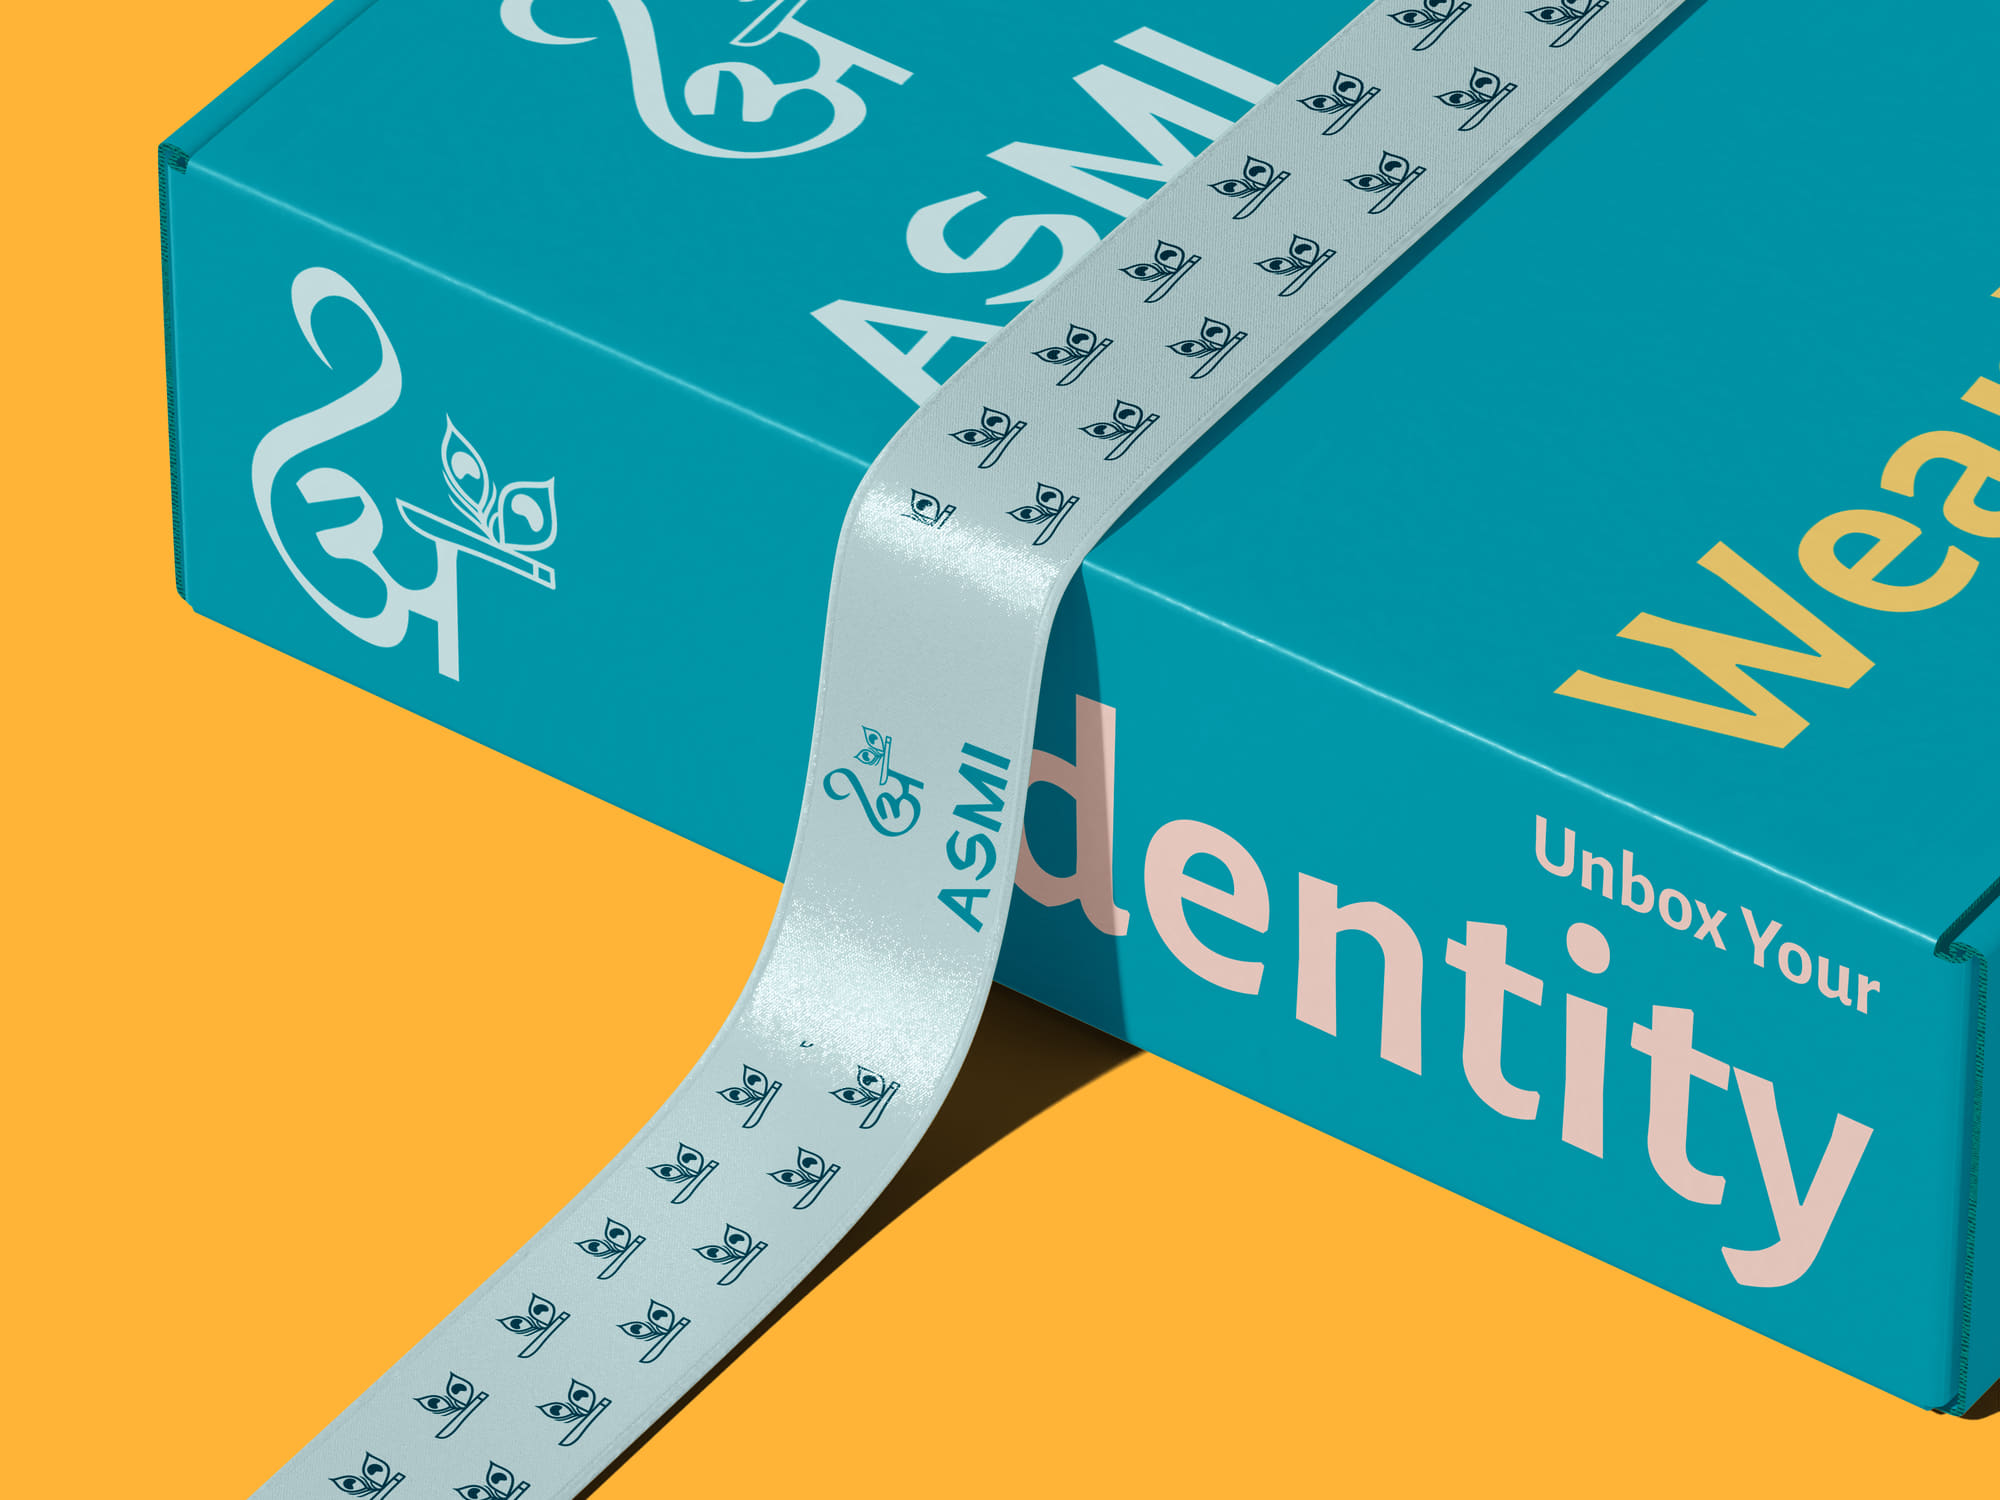
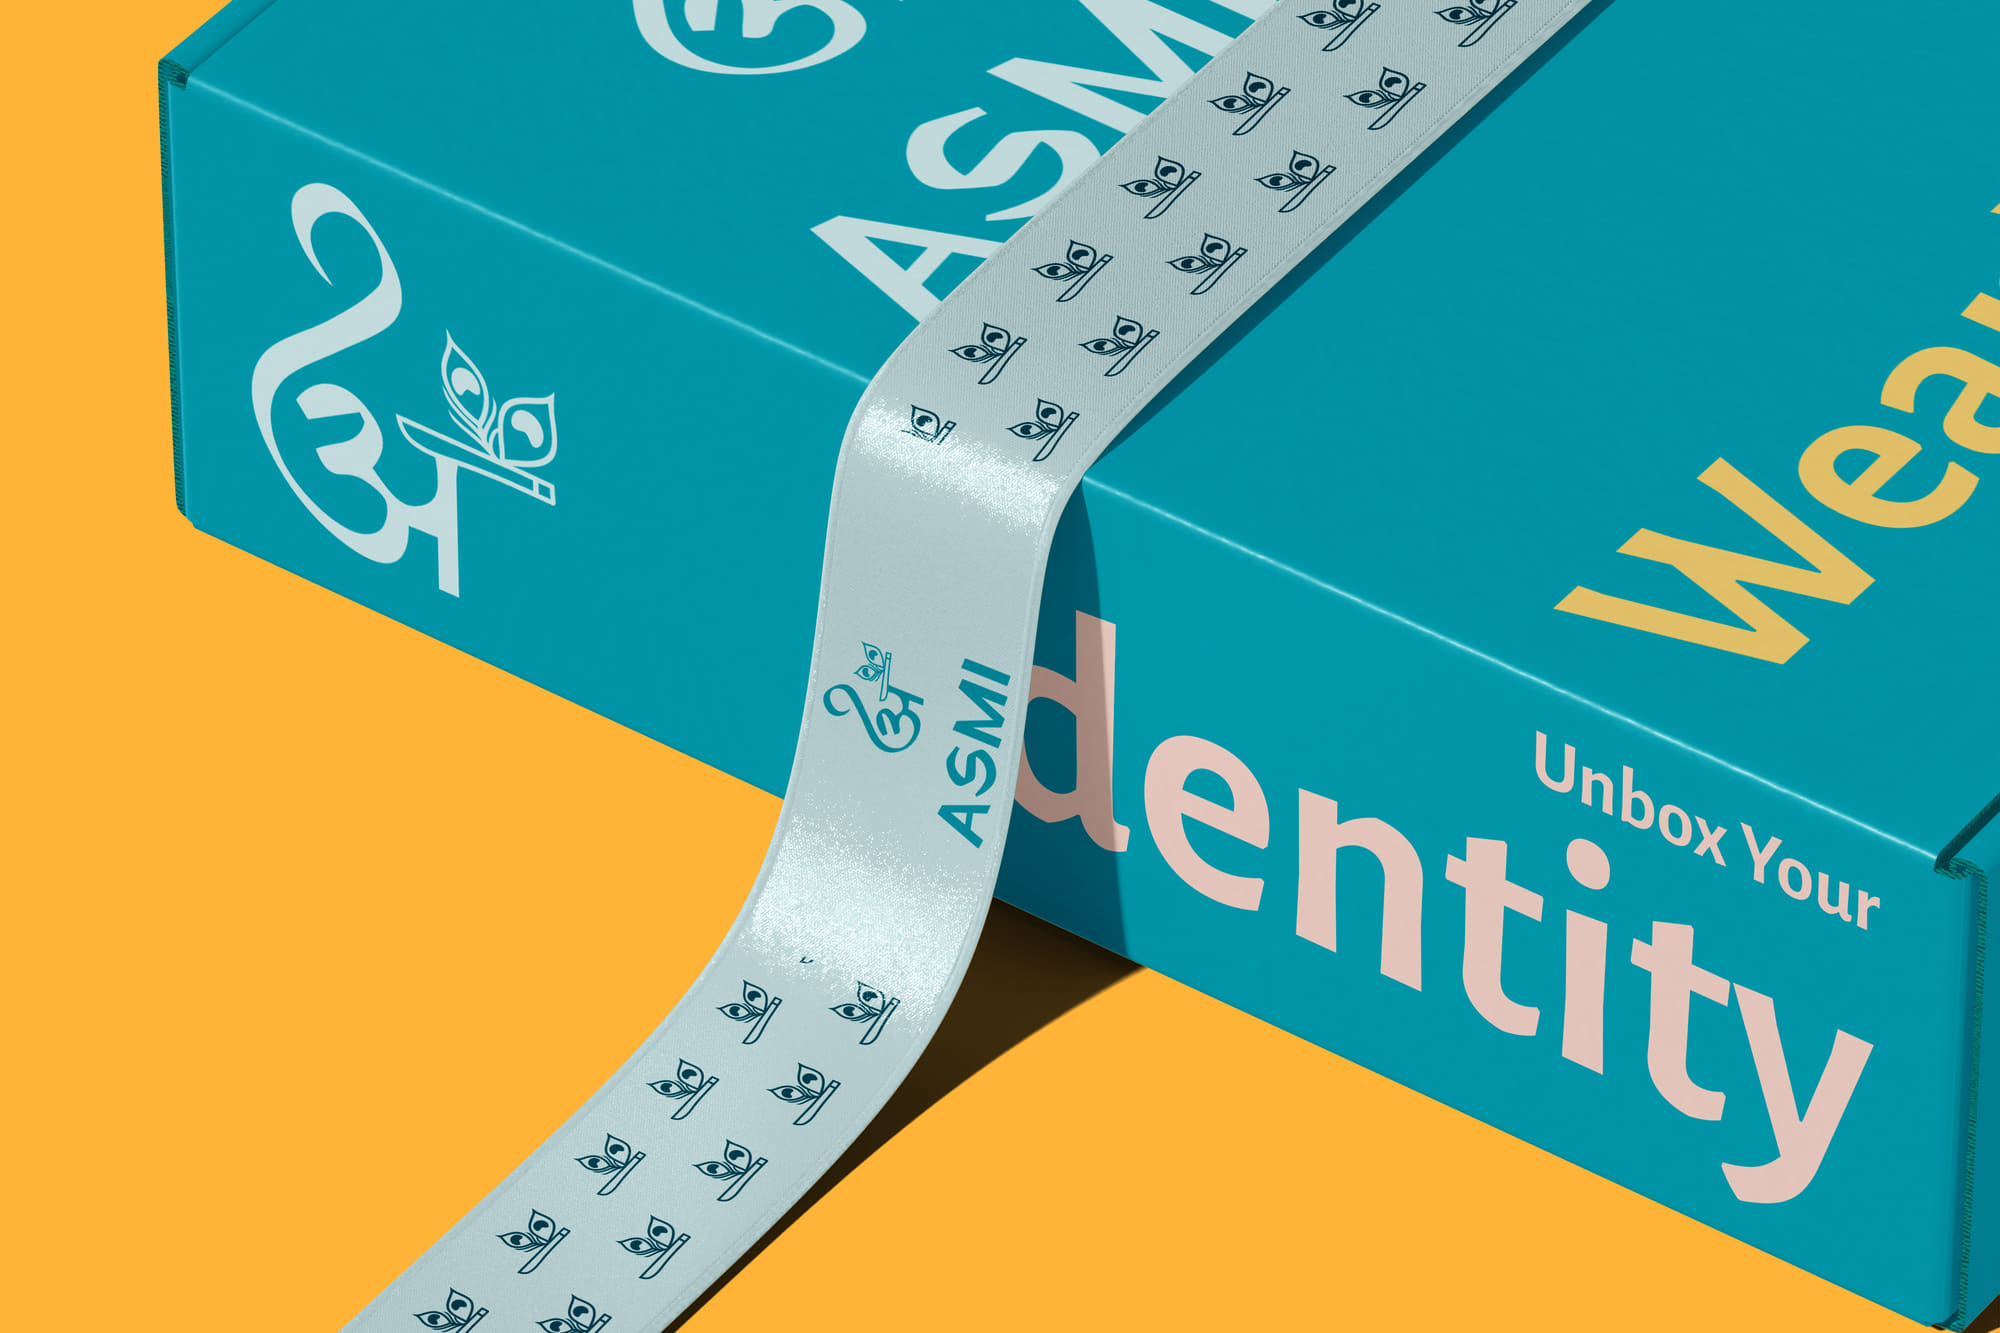
Regenerate images, and stop starving portrait covers of width
Running the pipeline turned up two real problems, both of which explain
the softness reported on the preview.

Chroma subsampling. The committed images predate this script and were
encoded at 4:2:0, which halves colour resolution horizontally and
vertically. On saturated brand work, Swirly especially, that shows as
mushy colour edges. This script asks for 4:4:4 and always has, but the
files had never been regenerated through it. They have been now.

Cover width. The cover branch capped height at 1600 with fit:inside,
written when the cover band was 16:7. Every slot a cover fills is
landscape and uses object-fit:cover, so on a portrait source the height
cap decided the size and the width fell short: Swirly came out 1200px
wide and Paloma 1195px, both then stretched across a 2000px band.

Covers are now cropped to 3:2 at 2000x1333, which is the crop the
browser was already applying, done once at full resolution. Composition
is unchanged, sharpness is not.

Also in this commit: a new Swirly gallery image, the log now reports the
dimensions actually produced rather than the width requested, and the
closing line no longer points at build/build.js from the old static site.

Shipped images go from 4.7 MB to 6.7 MB. That is the cost of full colour
resolution, and next/image still cuts it well below that per device.

diff --git a/scripts/images.js b/scripts/images.js
@@ -5,7 +5,7 @@
    Reads full size originals from  source-images/<slug>/
    Writes source JPEGs to          public/work/<slug>/
 
-   Run from the repo root:   node build/images.js
+   Run from the repo root:   npm run images
 
    Originals are never touched and never committed. Only the
    web sized files go into the repo, which keeps git history
@@ -29,8 +29,16 @@ const OUT  = path.join(ROOT, 'public/work');
 
 /* Displayed widths, doubled for high density screens, then capped.
    The cover runs full bleed, gallery images sit two up or full width. */
-const WIDTH_COVER   = 2000;
-const HEIGHT_COVER  = 1600;   // the cover slot crops to 16:7, so tall sources waste bytes
+/* Every slot a cover appears in is landscape and uses object-fit:cover:
+   the case study band is 3:2, the work card and the next project thumb
+   are 4:3. So the cover is cropped to 3:2 here, which is the crop the
+   browser was doing anyway, done once at full resolution.
+
+   Capping the height instead, as this used to, starved portrait sources
+   of width: a 4096x5460 cover came out 1200px wide and was then stretched
+   across a 2000px band. That is what made those covers look soft. */
+const COVER_W       = 2000;
+const COVER_H       = 1333;
 const WIDTH_WIDE    = 2000;
 const WIDTH_GALLERY = 2000;
 const QUALITY       = 78;
@@ -48,7 +56,7 @@ function tidy(name){
 }
 
 function widthFor(name){
-  if (/^cover\b/.test(name)) return WIDTH_COVER;
+  if (/^cover\b/.test(name)) return COVER_W;
   if (/wide/.test(name)) return WIDTH_WIDE;
   return WIDTH_GALLERY;
 }
@@ -85,18 +93,19 @@ for (const slug of fs.readdirSync(SRC)) {
     await sharp(job.src)
       .rotate()                                   // honour EXIF orientation
       .resize(/^cover/.test(name)
-        ? { width, height: HEIGHT_COVER, fit: 'inside', withoutEnlargement: true }
+        ? { width: COVER_W, height: COVER_H, fit: 'cover', withoutEnlargement: true }
         : { width, withoutEnlargement: true })
       .jpeg({ quality: QUALITY, mozjpeg: true, chromaSubsampling: '4:4:4' })
       .toFile(dest);
 
     const out = fs.statSync(dest).size;
+    const made = await sharp(dest).metadata();
     inBytes += src; outBytes += out; count++;
 
     console.log(
       (job.slug + '/' + name).padEnd(46) +
       String(meta.width + 'x' + meta.height).padEnd(12) + '-> ' +
-      String(Math.min(width, meta.width) + 'px').padEnd(8) +
+      String(made.width + 'x' + made.height).padEnd(12) +
       (src / 1048576).toFixed(1) + ' MB -> ' + (out / 1024).toFixed(0) + ' KB'
     );
   }
@@ -105,5 +114,5 @@ for (const slug of fs.readdirSync(SRC)) {
   console.log('originals ' + (inBytes / 1048576).toFixed(0) + ' MB');
   console.log('web       ' + (outBytes / 1048576).toFixed(1) + ' MB   ' +
               (100 - outBytes / inBytes * 100).toFixed(1) + '% smaller');
-  console.log('\nNow run: node build/build.js');
+  console.log('\nNow commit and push. Vercel builds the site itself.');
 })().catch(e => { console.error(e); process.exit(1); });
